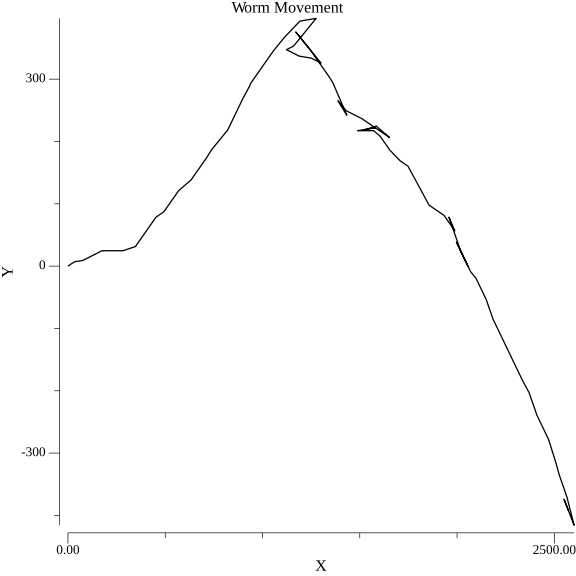
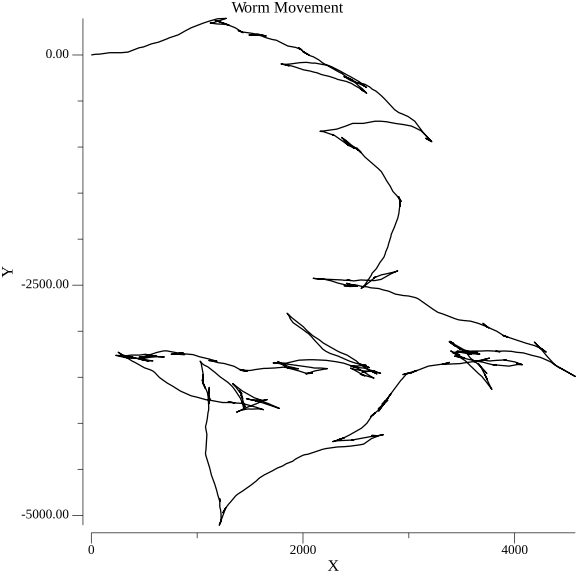
run longer

diff --git a/worm/main.go b/worm/main.go
@@ -34,7 +34,7 @@ func main() {
 	var points plotter.XYs
 
 	// Run the simulation
-	for i := 0; i < 100; i++ {
+	for i := 0; i < 1000; i++ {
 		C.Worm_chemotaxis(worm)
 		C.Worm_noseTouch(worm)
 
